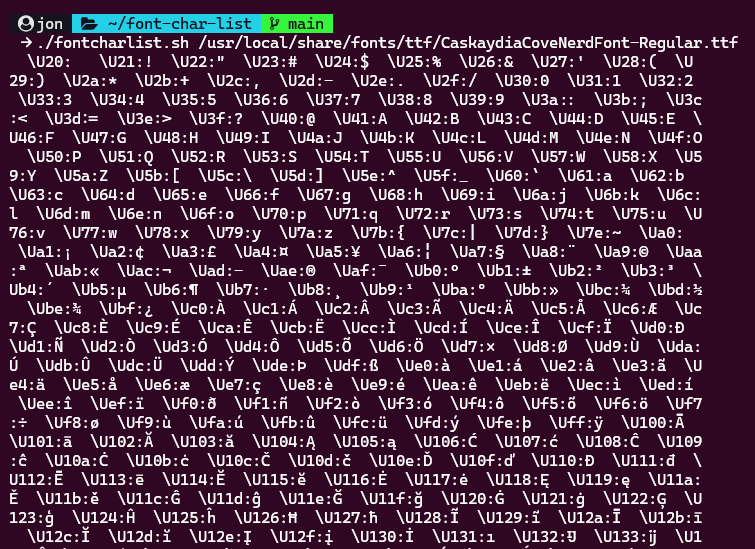
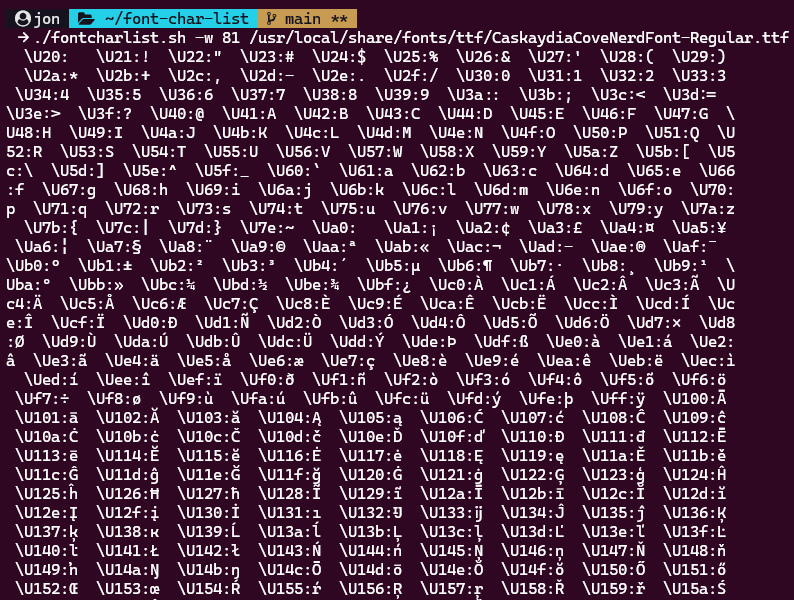
Image update for -w flag

diff --git a/README.md b/README.md
@@ -14,12 +14,14 @@ I just tweaked the script a little so it worked exactly as I wanted it. I'm uplo
 
 This will print out all of the glyphs contained in the font **CaskaydiaCoveNerdFont-Regular.tty**:
 
-`./fontcharlist.sh /usr/local/share/fonts/ttf/CaskaydiaCoveNerdFont-Regular.ttf`
+`.fontcharlist.sh [-w width] /path/to/fileName.ttf`
 
-You can look up the path+name to your fonts using the following command: `fc-list`
+You can look up the path+name to your fonts using the following command: `fc-list`  
 Or use grep to filter the one you want: `fc-list | grep Caskaydia`
 
 ## Example
+
+`./fontcharlist.sh /usr/local/share/fonts/ttf/CaskaydiaCoveNerdFont-Regular.ttf`
 
 <p align="center">
   <img src="./images/command-execution.png" alt="Command exacution of the script" width="600"/>
